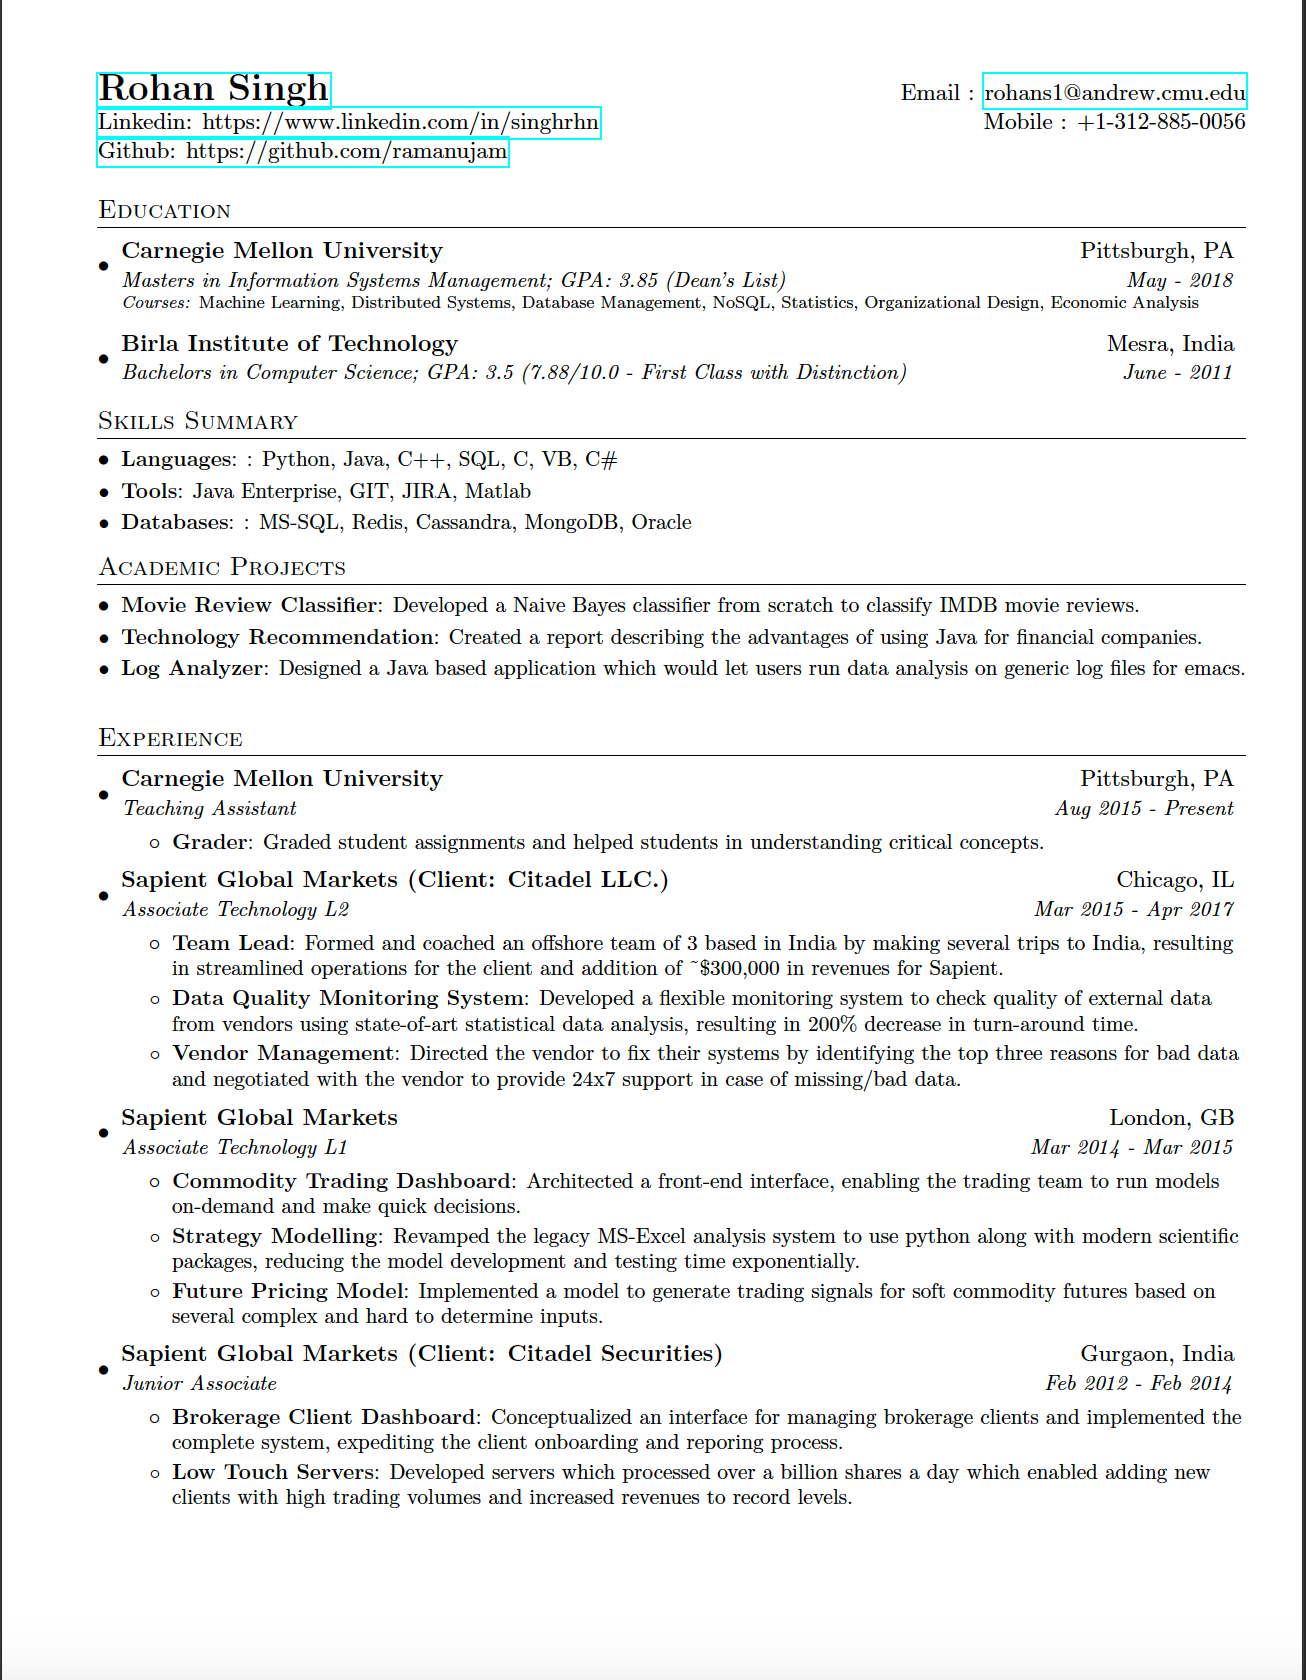
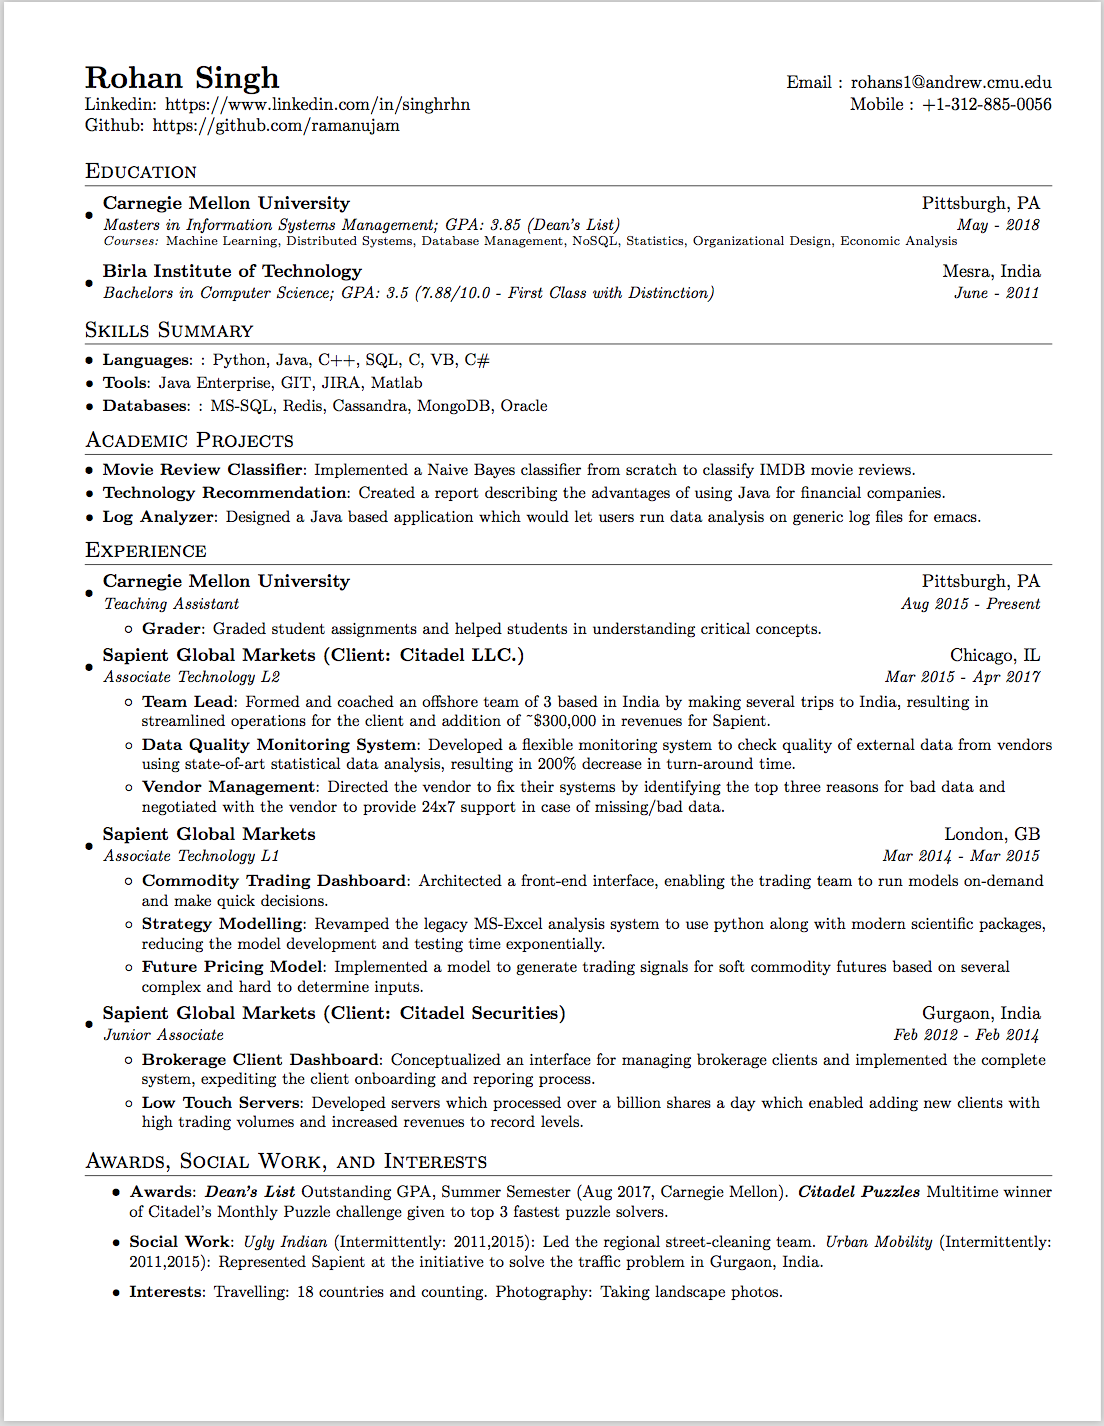
revise the font size to fit in a page
- too small?
- #todo
  fix the font size issue

Changed region(s): [[0.0616, 0.0309, 0.9547, 0.9257], [0.0, 0.0, 1.0, 1.0], [0.6775, 0.0309, 0.9547, 0.0926]]

diff --git a/rohan_singh_tech.tex b/rohan_singh_tech.tex
@@ -4,7 +4,7 @@
 % License : MIT
 %------------------------
 
-\documentclass[letterpaper,10.5pt]{article}
+\documentclass[letterpaper,10.8pt]{article}
 
 \usepackage{latexsym}
 \usepackage[empty]{fullpage}
@@ -28,7 +28,7 @@
 \addtolength{\evensidemargin}{-0.375in}
 \addtolength{\textwidth}{1in}
 \addtolength{\topmargin}{-.5in}
-\addtolength{\textheight}{.5in}
+\addtolength{\textheight}{1in}
 
 \urlstyle{rm}
 
@@ -57,14 +57,6 @@
     \end{tabular*}\vspace{-5pt}
 }
 
-\newcommand{\resumeSubheadingOne}[5]{
-	\vspace{-1pt}\item
-	\begin{tabular*}{0.97 \textwidth}{l@{\extracolsep{\fill}}r}
-		\textbf{#1} & #2 \\
-		\textit{\small#3} & \textit{\small #4} \\
-		\textit{\scriptsize #5} && {}
-	\end{tabular*}\vspace{-5pt}
-}
 
 \newcommand{\resumeSubItem}[2]{\resumeItem{#1}{#2}\vspace{-4pt}}
 
